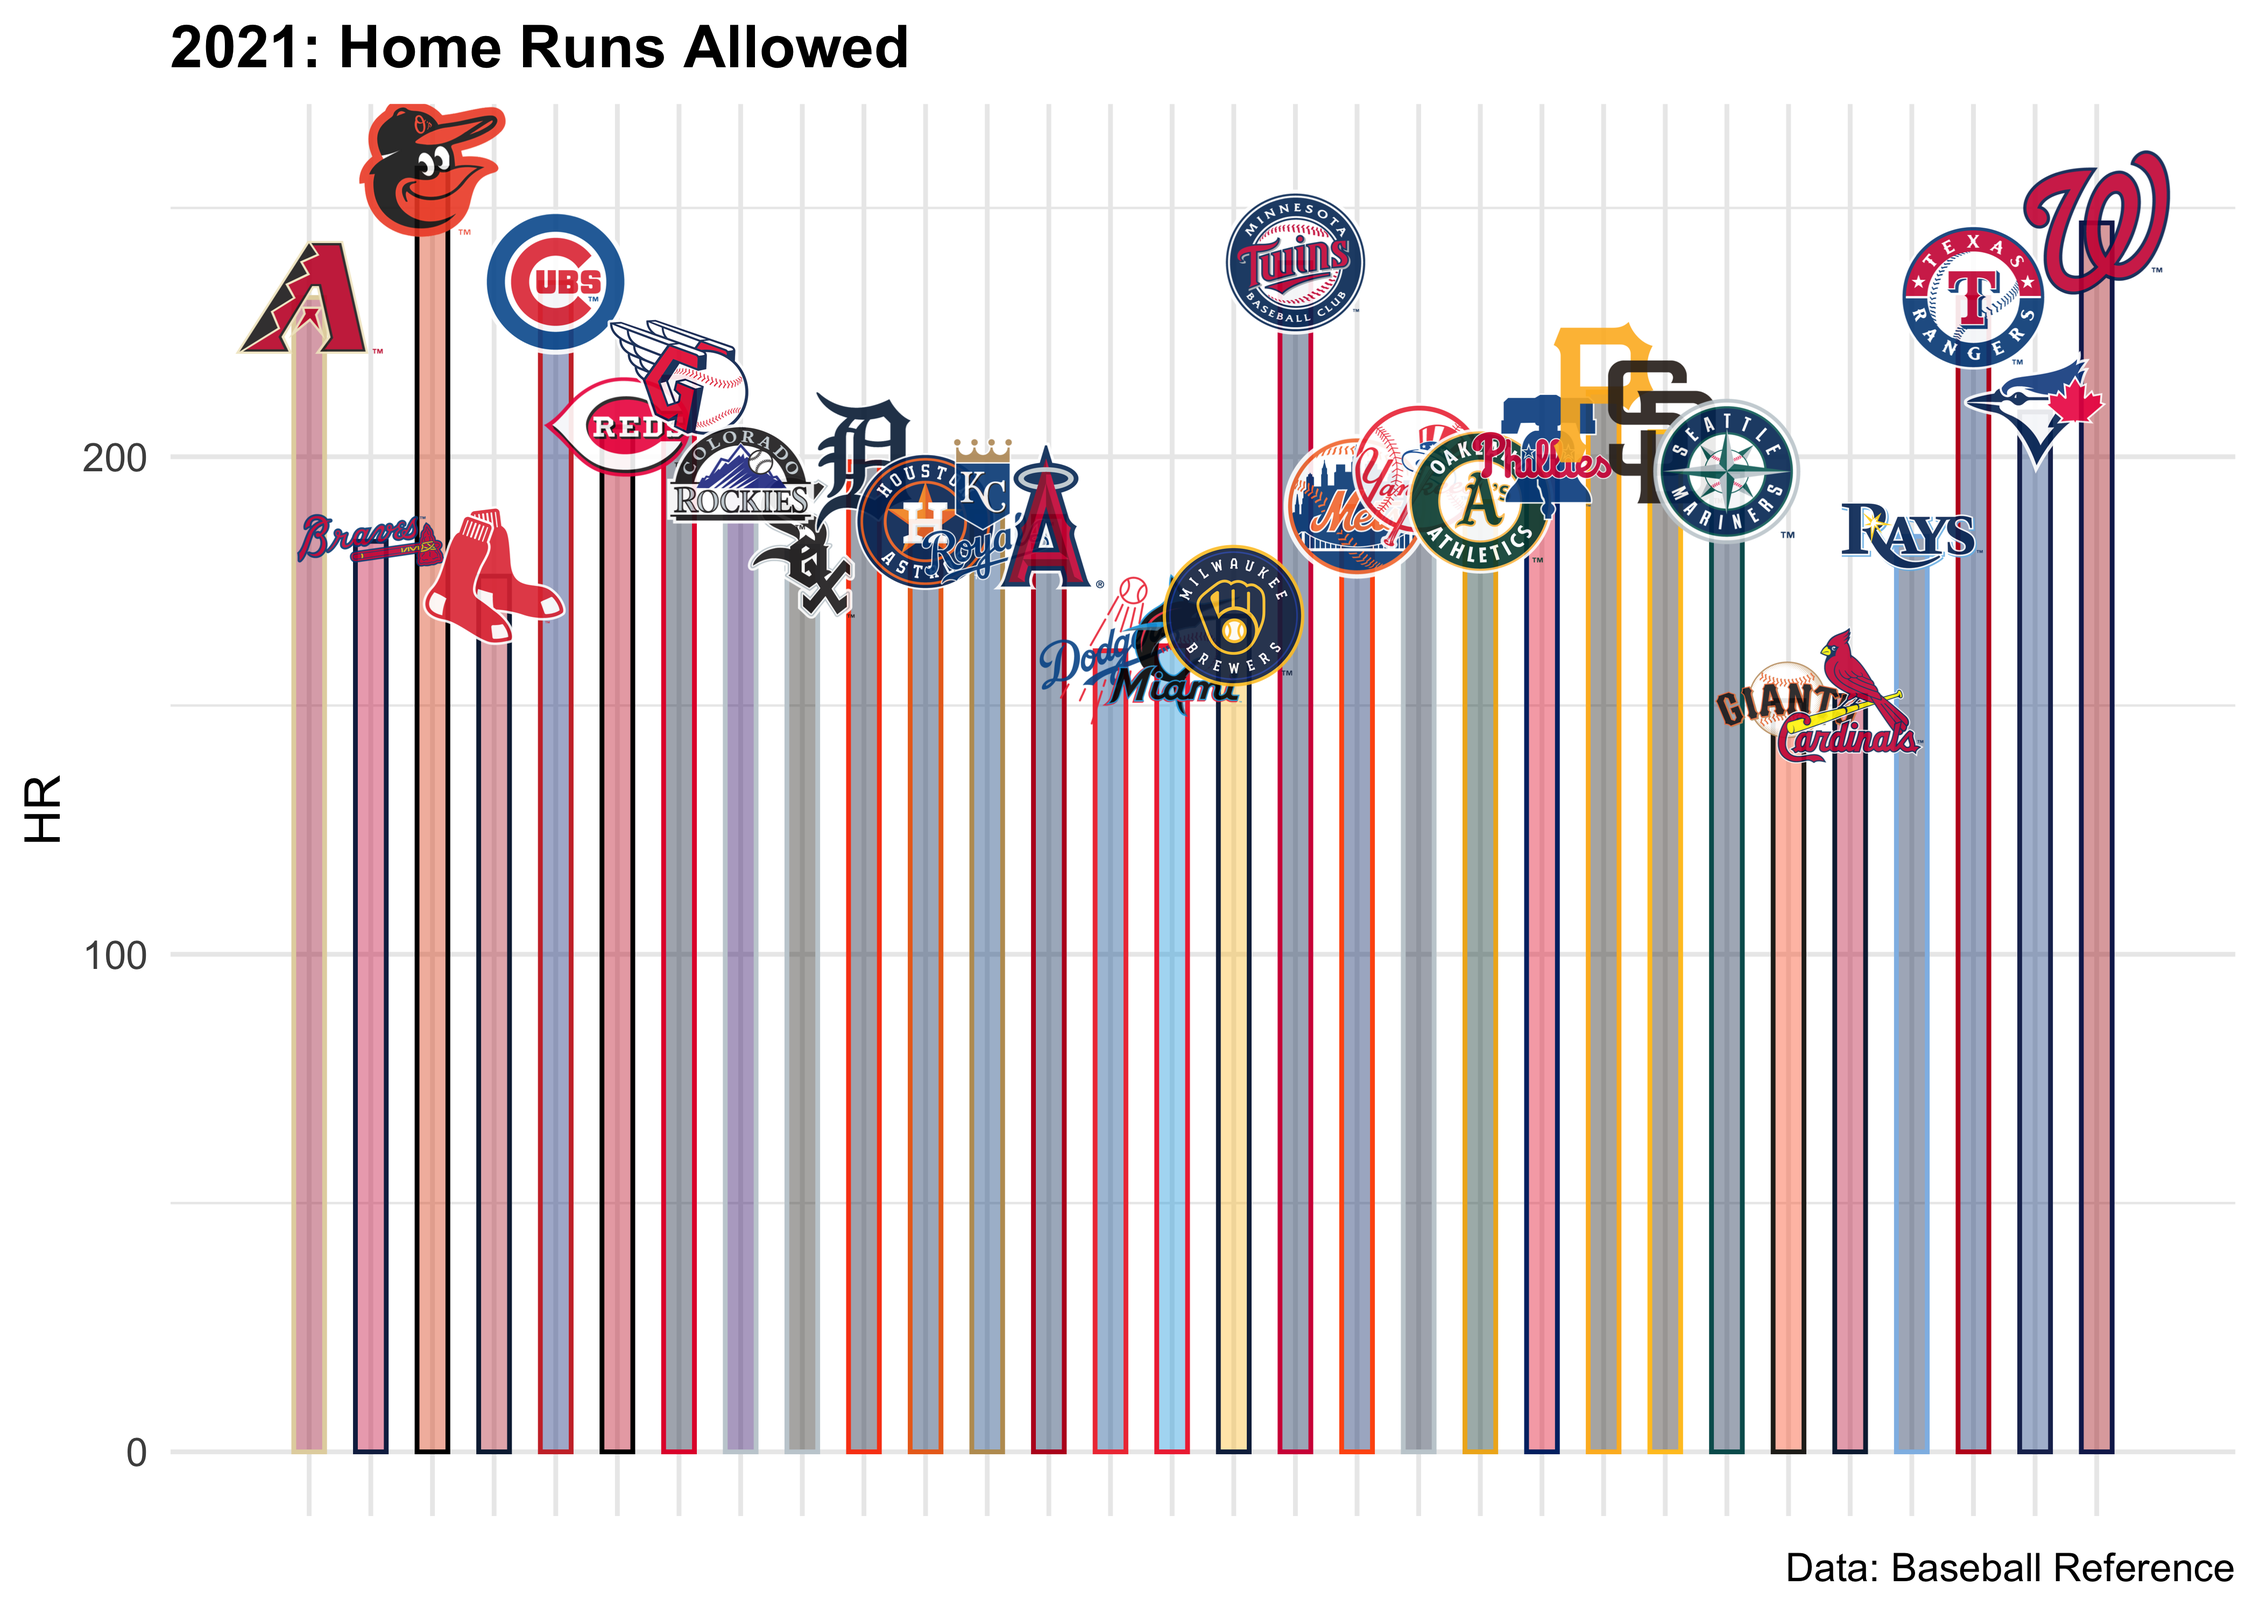
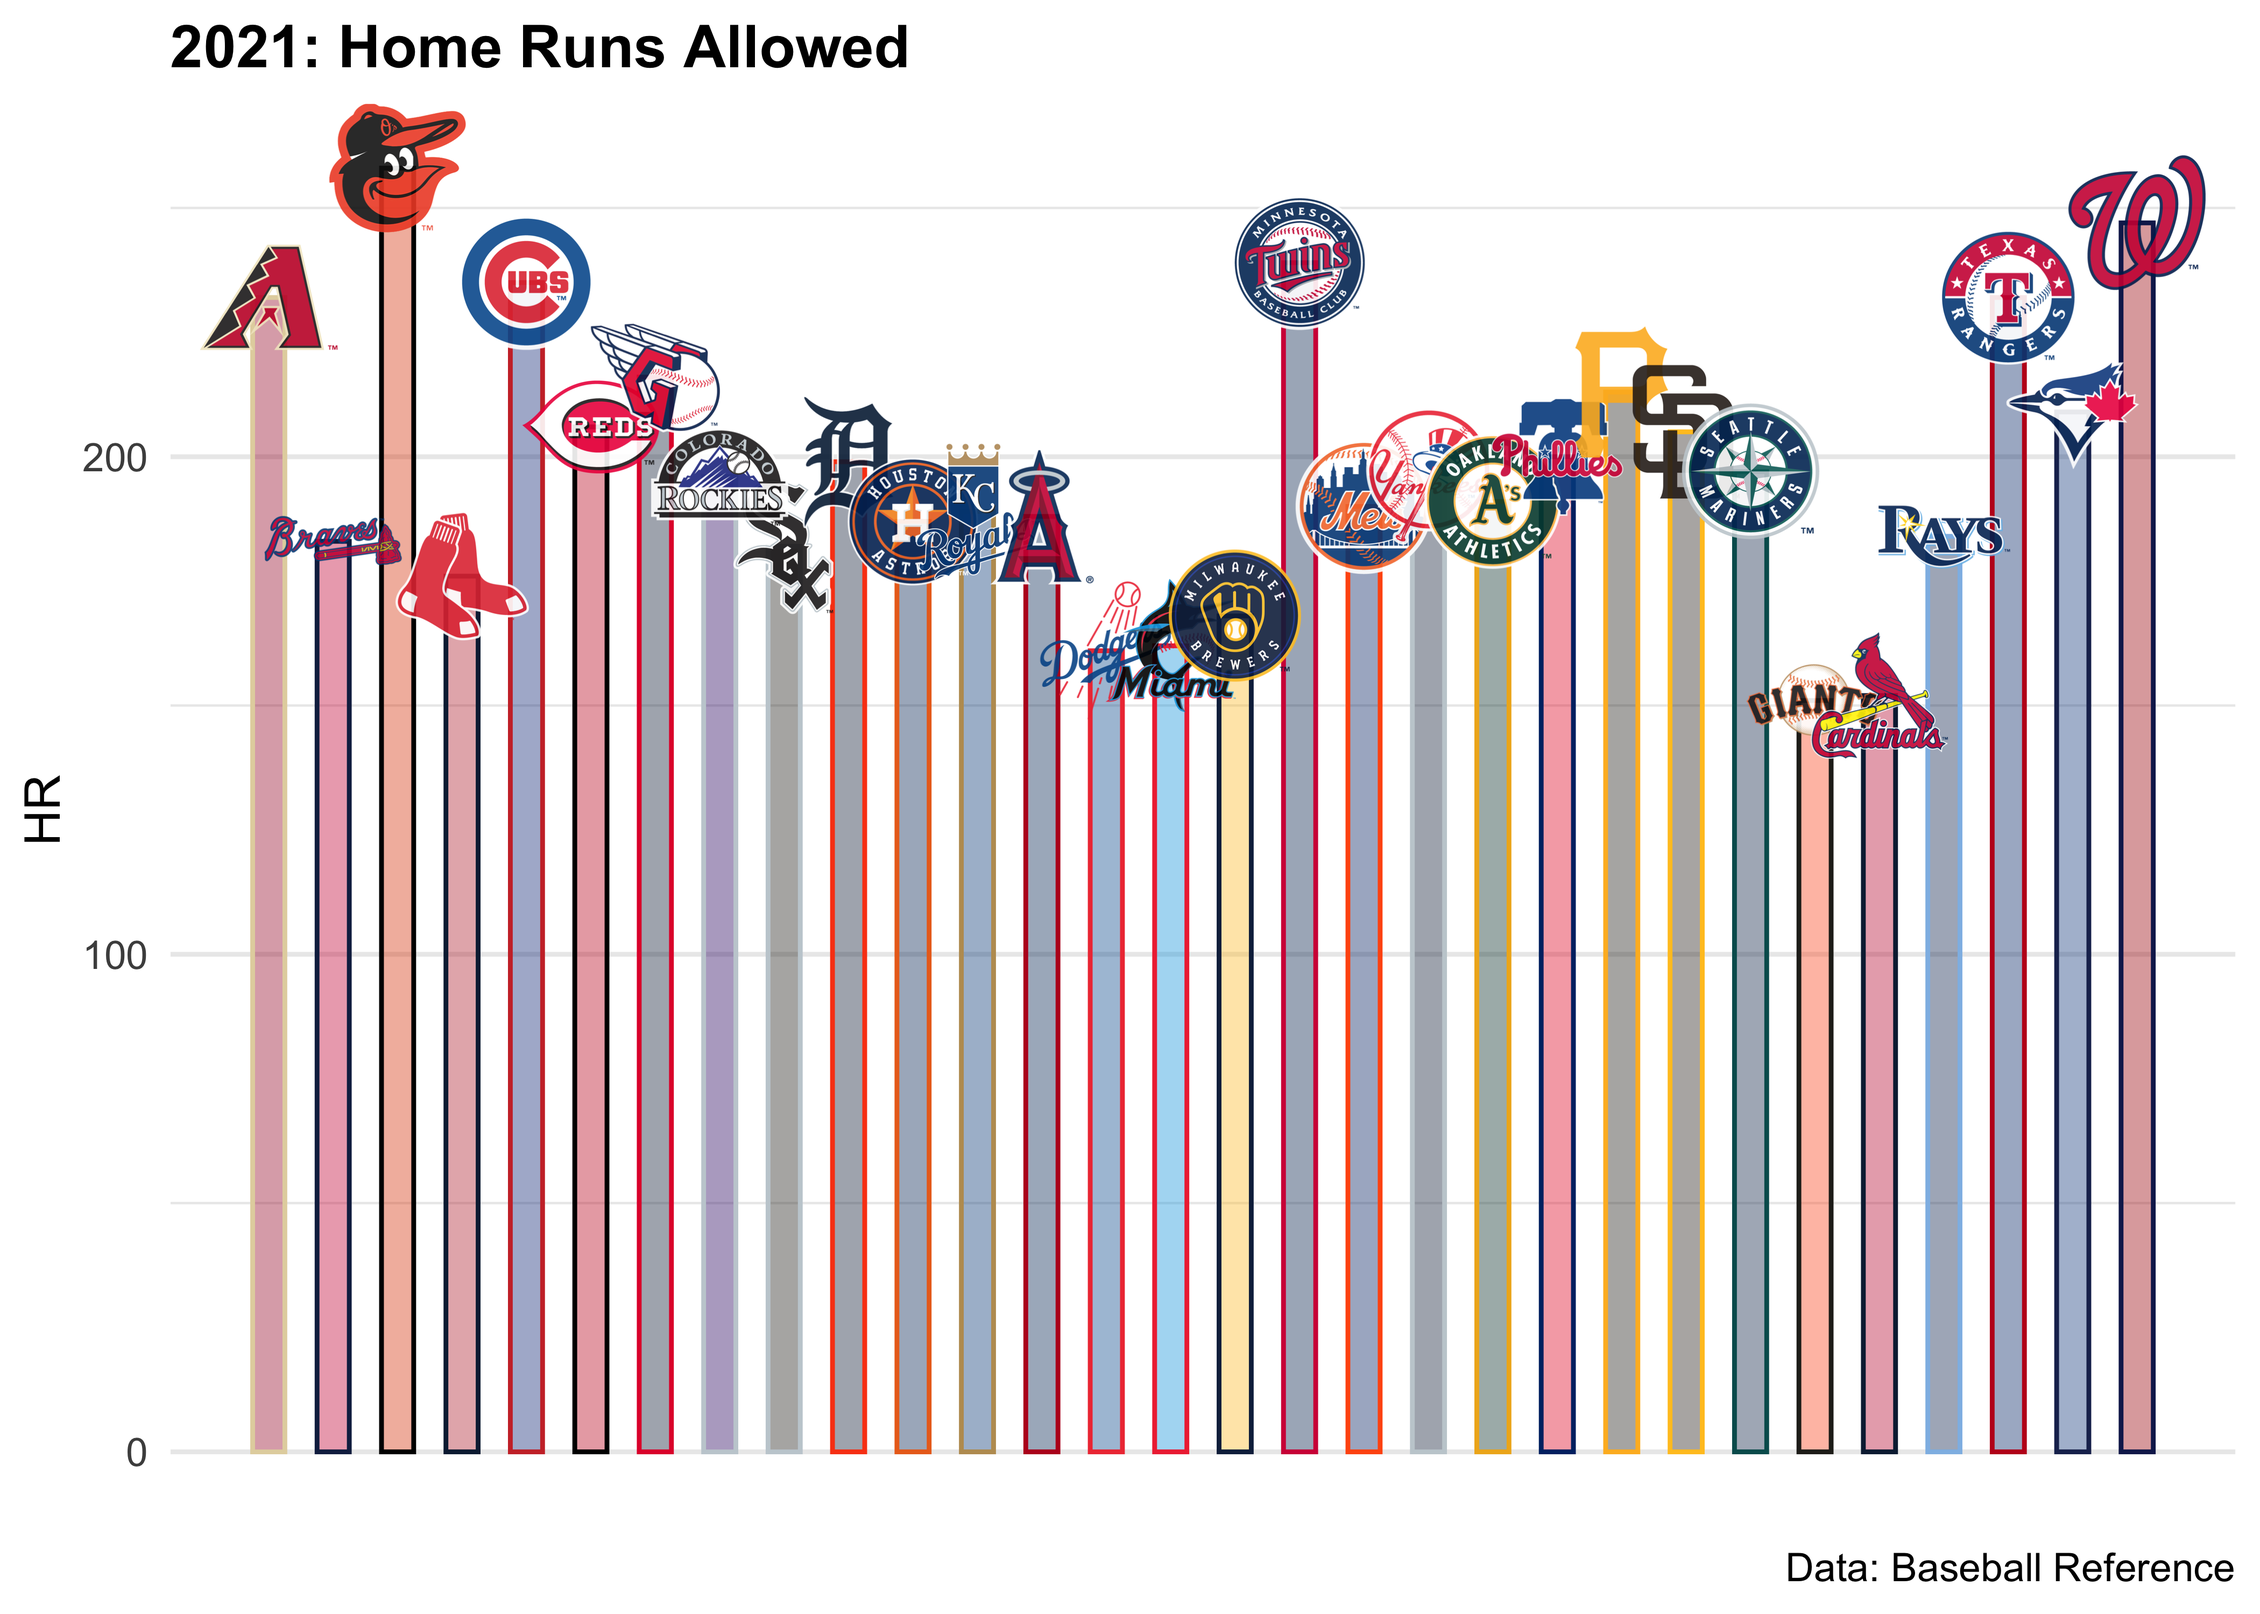
Updated README

diff --git a/README.md b/README.md
@@ -72,7 +72,7 @@ joined_df <- df %>%
   left_join(teams_colors_logos, by = c("Tm" = "team_name"))
 
 
-joined_df %>% 
+joined_df %>%
   ggplot2::ggplot(aes(x = ERA, y = FIP)) +
   mlbplotR::geom_mlb_logos(aes(team_savant_abbr = team_savant_abbr), width = 0.075, alpha = 0.7) +
   ggplot2::labs(
@@ -95,7 +95,7 @@ Here’s another that looks at Home Runs Allowed by team:
 joined_df %>% 
   ggplot2::ggplot(aes(x = team_savant_abbr, y = HR)) +
   ggplot2::geom_col(aes(color = team_savant_abbr, fill = team_savant_abbr), width = 0.5) +
-  mlbplotR::geom_mlb_logos(aes(team_savant_abbr = team_savant_abbr), width = 0.075, alpha = 0.9) +
+  mlbplotR::geom_mlb_logos(aes(team_savant_abbr = team_savant_abbr), width = 0.07, alpha = 0.9) +
   mlbplotR::scale_color_mlb(type = "secondary") +
   mlbplotR::scale_fill_mlb(alpha = 0.4) +
   ggplot2::labs(
@@ -106,9 +106,10 @@ joined_df %>%
   ggplot2::theme(
     plot.title = ggplot2::element_text(face = "bold"),
     axis.title.x = ggplot2::element_blank(),
-    axis.text.x = ggplot2::element_blank()
+    axis.text.x = ggplot2::element_blank(),
+    panel.grid.major.x = element_blank()
   ) +
-  ggplot2::scale_x_discrete(expand = c(0.075, 0.075))
+  ggplot2::scale_x_discrete(expand = c(0.05, 0.075))
 ```
 
 <img src="man/figures/README-bar-example-1.png" width="100%" />
@@ -144,6 +145,7 @@ Team_FB_Rate %>%
   ggplot2::theme(
     plot.title = ggplot2::element_text(face = "bold"),
     axis.title.x = ggplot2::element_blank(),
+    panel.grid.major.x = element_blank(),
     # this line triggers the replacement of team abbreviations with logos
     axis.text.x = element_mlb_logo()
   )
@@ -175,12 +177,16 @@ BAL_2021_pitch_leaders %>%
   ggplot2::theme(
     plot.title = ggplot2::element_text(face = "bold"),
     axis.title.x = ggplot2::element_blank(),
-    axis.text.x = ggplot2::element_blank()
+    axis.text.x = ggplot2::element_blank(),
+    panel.grid.major.x = element_blank()
   ) +
   ggplot2::scale_y_continuous(limits = c(0,3000))
 ```
 
 <img src="man/figures/README-headshot-example-1.png" width="100%" />
+
+Note: If a player’s headshot data can’t be found, their headshot will be
+replaced with the MLB logo.
 
 ## Contributing
 
@@ -195,3 +201,6 @@ this project:
 
 -   Create a package vignette
 -   Add in mean/median line geoms
+-   Continue to add more player ids for headshots
+-   Create a function that returns a dataframe with player ids and teams
+    played for in a given year
